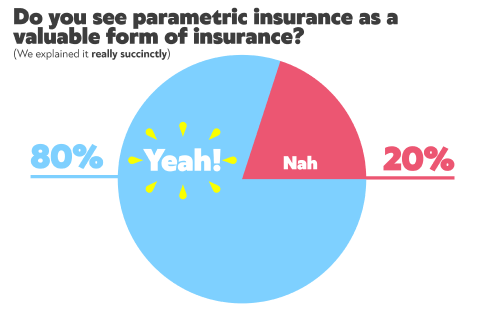
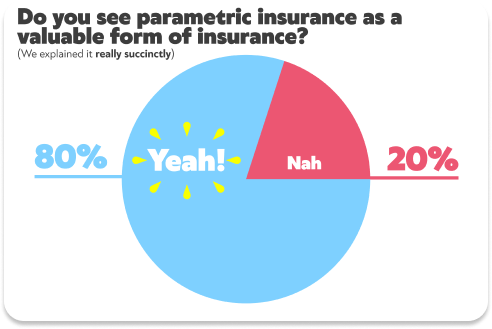
change images survey-final_question

diff --git a/parametric-insurance.html b/parametric-insurance.html
@@ -483,7 +483,7 @@
                 </div>
                 <div class="images">
                     <img src="images/parametric-insurance/survey-final_question1.png" />
-                    <img src="images/parametric-insurance/survey_final_question2.png" />
+                    <img src="images/parametric-insurance/survey-final_question2.png" />
                 </div>
             </div>
             <div class="text">
